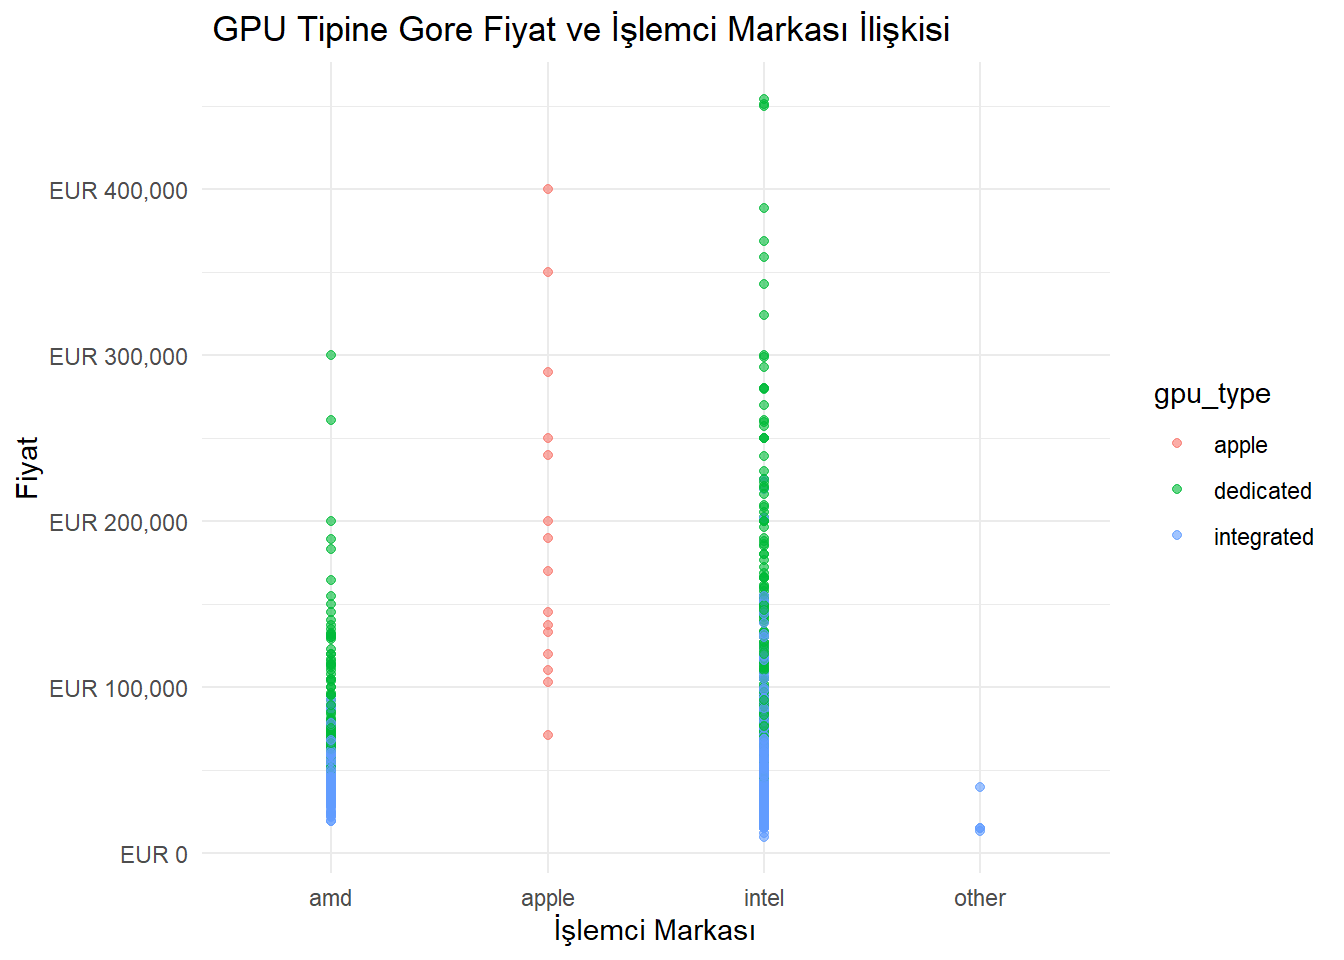
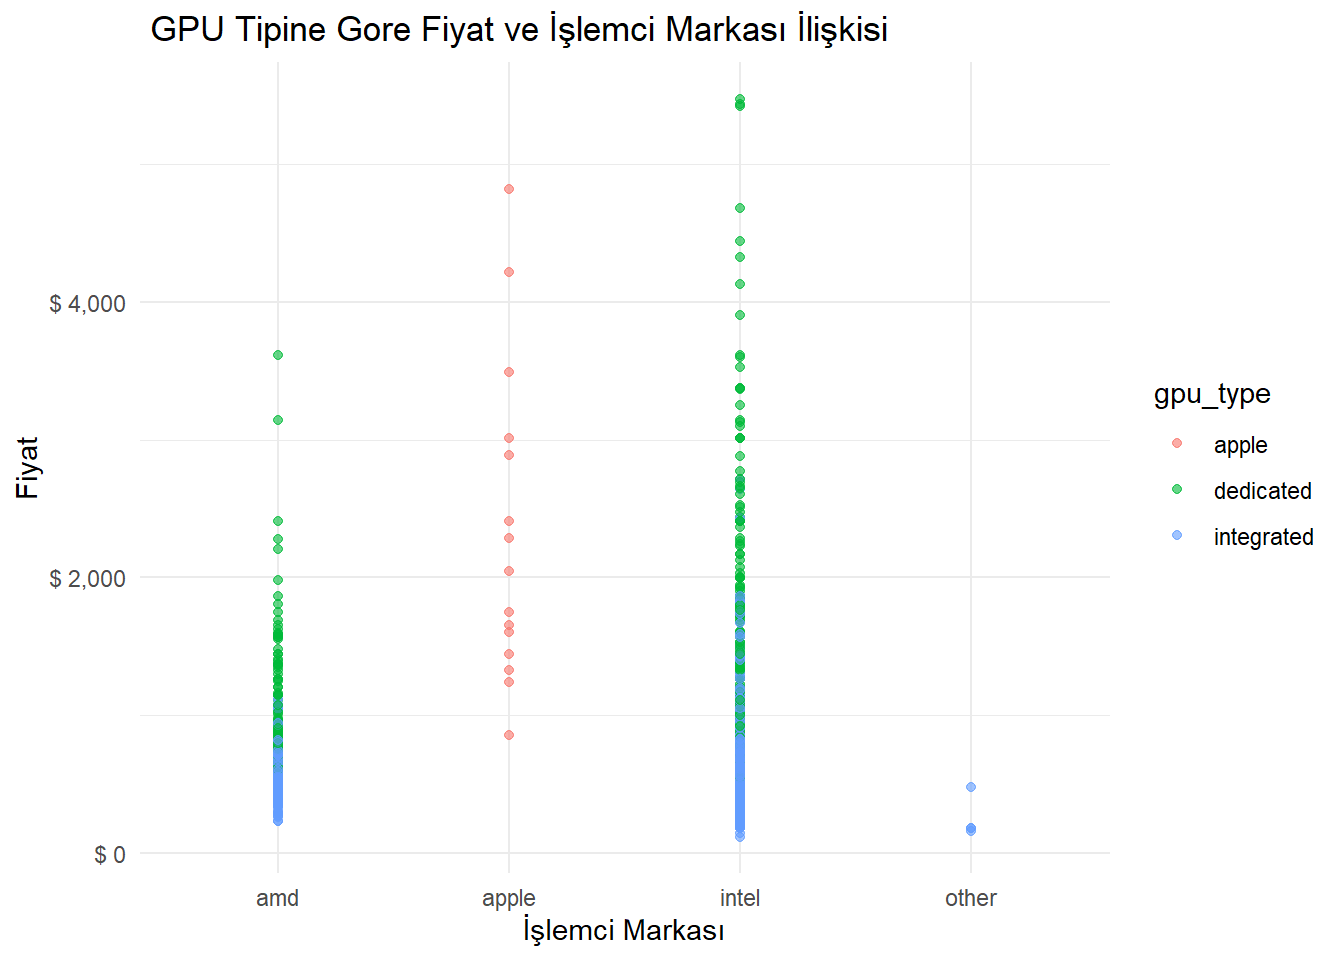
calisma

diff --git a/docs/proje.html b/docs/proje.html
@@ -249,7 +249,8 @@ Attaching package: 'car'</code></pre>
 
     recode</code></pre>
 </div>
-<div class="sourceCode cell-code" id="cb11"><pre class="sourceCode r code-with-copy"><code class="sourceCode r"><span id="cb11-1"><a href="#cb11-1" aria-hidden="true" tabindex="-1"></a><span class="fu">getwd</span>()</span></code><button title="Copy to Clipboard" class="code-copy-button"><i class="bi"></i></button></pre></div>
+<div class="sourceCode cell-code" id="cb11"><pre class="sourceCode r code-with-copy"><code class="sourceCode r"><span id="cb11-1"><a href="#cb11-1" aria-hidden="true" tabindex="-1"></a><span class="fu">library</span>(scales)</span>
+<span id="cb11-2"><a href="#cb11-2" aria-hidden="true" tabindex="-1"></a><span class="fu">getwd</span>()</span></code><button title="Copy to Clipboard" class="code-copy-button"><i class="bi"></i></button></pre></div>
 <div class="cell-output cell-output-stdout">
 <pre><code>[1] "C:/Users/Bora KOPARAN/OneDrive/Belgeler/GitHub/muy665-bahar2025-takim-r-we-cool"</code></pre>
 </div>
@@ -387,7 +388,7 @@ Attaching package: 'car'</code></pre>
 <span id="cb25-14"><a href="#cb25-14" aria-hidden="true" tabindex="-1"></a>data_new<span class="sc">$</span>num_cores <span class="ot">&lt;-</span> <span class="fu">as.factor</span>(data_new<span class="sc">$</span>num_cores)</span>
 <span id="cb25-15"><a href="#cb25-15" aria-hidden="true" tabindex="-1"></a></span>
 <span id="cb25-16"><a href="#cb25-16" aria-hidden="true" tabindex="-1"></a><span class="co"># Convert relevant columns to numeric</span></span>
-<span id="cb25-17"><a href="#cb25-17" aria-hidden="true" tabindex="-1"></a>data_new<span class="sc">$</span>Price <span class="ot">&lt;-</span> <span class="fu">as.numeric</span>(data_new<span class="sc">$</span>Price)</span>
+<span id="cb25-17"><a href="#cb25-17" aria-hidden="true" tabindex="-1"></a>data_new<span class="sc">$</span>Price <span class="ot">&lt;-</span> <span class="fu">as.numeric</span>(data_new<span class="sc">$</span>Price<span class="sc">/</span><span class="dv">83</span>)</span>
 <span id="cb25-18"><a href="#cb25-18" aria-hidden="true" tabindex="-1"></a>data_new<span class="sc">$</span>Rating <span class="ot">&lt;-</span> <span class="fu">as.numeric</span>(data_new<span class="sc">$</span>Rating)</span>
 <span id="cb25-19"><a href="#cb25-19" aria-hidden="true" tabindex="-1"></a>data_new<span class="sc">$</span>num_threads <span class="ot">&lt;-</span> <span class="fu">as.numeric</span>(data_new<span class="sc">$</span>num_threads)</span>
 <span id="cb25-20"><a href="#cb25-20" aria-hidden="true" tabindex="-1"></a>data_new<span class="sc">$</span>primary_storage_capacity <span class="ot">&lt;-</span> <span class="fu">as.numeric</span>(data_new<span class="sc">$</span>primary_storage_capacity)</span>
@@ -455,7 +456,7 @@ Attaching package: 'car'</code></pre>
 <span id="cb29-6"><a href="#cb29-6" aria-hidden="true" tabindex="-1"></a>  <span class="fu">geom_bar</span>(<span class="at">stat=</span><span class="st">'identity'</span>) <span class="sc">+</span></span>
 <span id="cb29-7"><a href="#cb29-7" aria-hidden="true" tabindex="-1"></a>  <span class="fu">ggtitle</span>(<span class="st">'GPU Markasına Gore Fiyatlar'</span>) <span class="sc">+</span></span>
 <span id="cb29-8"><a href="#cb29-8" aria-hidden="true" tabindex="-1"></a>  <span class="fu">xlab</span>(<span class="st">'GPU Markası'</span>) <span class="sc">+</span></span>
-<span id="cb29-9"><a href="#cb29-9" aria-hidden="true" tabindex="-1"></a>  <span class="fu">ylab</span>(<span class="st">'Fiyat (EUR)'</span>) <span class="sc">+</span></span>
+<span id="cb29-9"><a href="#cb29-9" aria-hidden="true" tabindex="-1"></a>  <span class="fu">ylab</span>(<span class="st">'Ortalama Fiyat ($)'</span>) <span class="sc">+</span></span>
 <span id="cb29-10"><a href="#cb29-10" aria-hidden="true" tabindex="-1"></a>  <span class="fu">theme_minimal</span>() <span class="sc">+</span></span>
 <span id="cb29-11"><a href="#cb29-11" aria-hidden="true" tabindex="-1"></a>  <span class="fu">theme</span>(<span class="at">axis.text.x =</span> <span class="fu">element_text</span>(<span class="at">angle =</span> <span class="dv">45</span>, <span class="at">hjust =</span> <span class="dv">1</span>))</span></code><button title="Copy to Clipboard" class="code-copy-button"><i class="bi"></i></button></pre></div>
 <div class="cell-output-display">
@@ -472,7 +473,7 @@ Attaching package: 'car'</code></pre>
 <span id="cb30-2"><a href="#cb30-2" aria-hidden="true" tabindex="-1"></a>  <span class="fu">geom_point</span>(<span class="at">alpha =</span> <span class="fl">0.6</span>) <span class="sc">+</span></span>
 <span id="cb30-3"><a href="#cb30-3" aria-hidden="true" tabindex="-1"></a>  <span class="fu">labs</span>(<span class="at">title =</span> <span class="st">' GPU Tipine Gore Fiyat ve İşlemci Markası İlişkisi'</span>, <span class="at">x =</span> <span class="st">'İşlemci Markası'</span>, <span class="at">y =</span> <span class="st">'Fiyat'</span>) <span class="sc">+</span></span>
 <span id="cb30-4"><a href="#cb30-4" aria-hidden="true" tabindex="-1"></a>  <span class="fu">theme_minimal</span>() <span class="sc">+</span></span>
-<span id="cb30-5"><a href="#cb30-5" aria-hidden="true" tabindex="-1"></a>  <span class="fu">scale_y_continuous</span>(<span class="at">labels =</span> scales<span class="sc">::</span><span class="fu">dollar_format</span>(<span class="at">prefix =</span> <span class="st">'EUR '</span>))</span></code><button title="Copy to Clipboard" class="code-copy-button"><i class="bi"></i></button></pre></div>
+<span id="cb30-5"><a href="#cb30-5" aria-hidden="true" tabindex="-1"></a>  <span class="fu">scale_y_continuous</span>(<span class="at">labels =</span> scales<span class="sc">::</span><span class="fu">dollar_format</span>(<span class="at">prefix =</span> <span class="st">'$ '</span>))</span></code><button title="Copy to Clipboard" class="code-copy-button"><i class="bi"></i></button></pre></div>
 <div class="cell-output-display">
 <div>
 <figure class="figure">
@@ -520,12 +521,14 @@ Attaching package: 'car'</code></pre>
 <div class="cell-output cell-output-stdout">
 <pre><code>[1] 0.6614219</code></pre>
 </div>
-<div class="sourceCode cell-code" id="cb35"><pre class="sourceCode r code-with-copy"><code class="sourceCode r"><span id="cb35-1"><a href="#cb35-1" aria-hidden="true" tabindex="-1"></a><span class="fu">ggplot</span>(data_new, <span class="fu">aes</span>(<span class="at">x=</span>Price, <span class="at">y=</span>Rating)) <span class="sc">+</span></span>
+<div class="sourceCode cell-code" id="cb35"><pre class="sourceCode r code-with-copy"><code class="sourceCode r"><span id="cb35-1"><a href="#cb35-1" aria-hidden="true" tabindex="-1"></a><span class="fu">ggplot</span>(data_new, <span class="fu">aes</span>(<span class="at">x =</span> Price, <span class="at">y =</span> Rating)) <span class="sc">+</span></span>
 <span id="cb35-2"><a href="#cb35-2" aria-hidden="true" tabindex="-1"></a>  <span class="fu">geom_point</span>() <span class="sc">+</span></span>
-<span id="cb35-3"><a href="#cb35-3" aria-hidden="true" tabindex="-1"></a>  <span class="fu">geom_smooth</span>(<span class="at">method=</span><span class="st">'lm'</span>, <span class="at">col=</span><span class="st">'blue'</span>) <span class="sc">+</span></span>
-<span id="cb35-4"><a href="#cb35-4" aria-hidden="true" tabindex="-1"></a>  <span class="fu">ggtitle</span>(<span class="st">'Scatter Plot of Fiyat ve Ratingin Scatter Plot Gosterimi'</span>) <span class="sc">+</span></span>
+<span id="cb35-3"><a href="#cb35-3" aria-hidden="true" tabindex="-1"></a>  <span class="fu">geom_smooth</span>(<span class="at">method =</span> <span class="st">'lm'</span>, <span class="at">col =</span> <span class="st">'blue'</span>) <span class="sc">+</span></span>
+<span id="cb35-4"><a href="#cb35-4" aria-hidden="true" tabindex="-1"></a>  <span class="fu">ggtitle</span>(<span class="st">'Fiyat ve Rating Arasındaki İlişki (Scatter Plot)'</span>) <span class="sc">+</span></span>
 <span id="cb35-5"><a href="#cb35-5" aria-hidden="true" tabindex="-1"></a>  <span class="fu">xlab</span>(<span class="st">'Fiyat'</span>) <span class="sc">+</span></span>
-<span id="cb35-6"><a href="#cb35-6" aria-hidden="true" tabindex="-1"></a>  <span class="fu">ylab</span>(<span class="st">'Rating'</span>)</span></code><button title="Copy to Clipboard" class="code-copy-button"><i class="bi"></i></button></pre></div>
+<span id="cb35-6"><a href="#cb35-6" aria-hidden="true" tabindex="-1"></a>  <span class="fu">ylab</span>(<span class="st">'Rating'</span>) <span class="sc">+</span></span>
+<span id="cb35-7"><a href="#cb35-7" aria-hidden="true" tabindex="-1"></a>  <span class="fu">scale_x_continuous</span>(<span class="at">breaks =</span> <span class="fu">seq</span>(<span class="dv">0</span>, <span class="dv">6000</span>, <span class="at">by =</span> <span class="dv">500</span>),</span>
+<span id="cb35-8"><a href="#cb35-8" aria-hidden="true" tabindex="-1"></a>                     <span class="at">labels =</span> comma)</span></code><button title="Copy to Clipboard" class="code-copy-button"><i class="bi"></i></button></pre></div>
 <div class="cell-output cell-output-stderr">
 <pre><code>`geom_smooth()` using formula = 'y ~ x'</code></pre>
 </div>
